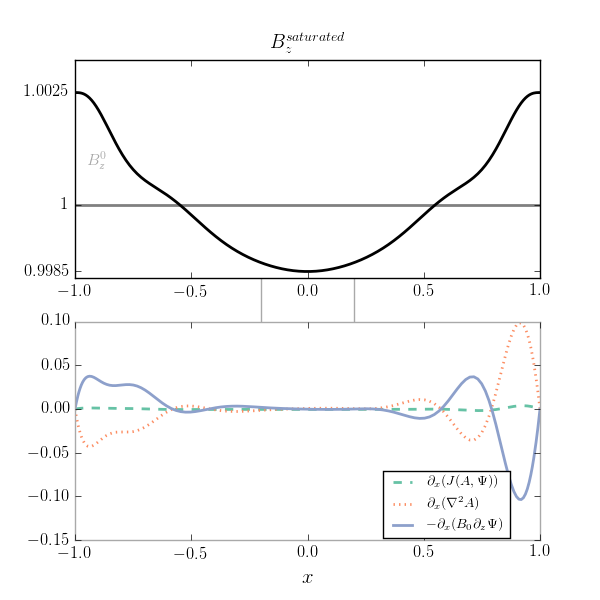
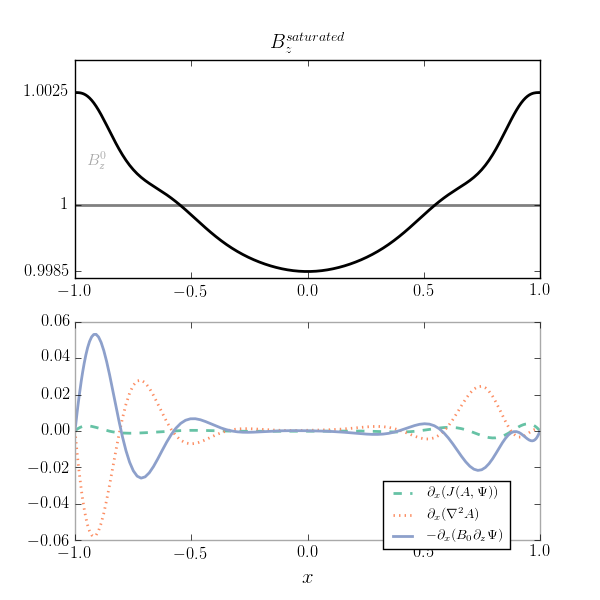
tidied up saturation plots

Changed region(s): [[0.06, 0.54, 0.9, 0.93], [0.09, 0.87, 0.12, 0.93], [0.09, 0.51, 0.12, 0.54]]

diff --git a/python/plot_thingap_saturation_mechanisms.py b/python/plot_thingap_saturation_mechanisms.py
@@ -113,7 +113,7 @@ else:
     ax2.plot(xgrid, dzBphi_slice, "-.", color=colors[3], lw=lw, label=r"$-\frac{2}{\beta} B_0 \partial_z B$")
     ax2.plot(xgrid, shearu_slice, dashes = [5,2,10,5], color=colors[4], lw=lw, label=r"$(2-q)\Omega_0 \partial_z \Psi$" )
 ax2.set_xlabel(r"$x$", size=15)
-plt.legend(prop={'size':10}, bbox_to_anchor=(0.95, 0.35))
+plt.legend(prop={'size':10}, bbox_to_anchor=(0.9, 0.35))
 
 #ax2.set_xlim(-0.2, 0.2)
 #ax2.set_ylim(-0.00008, 0.00008)
@@ -135,7 +135,7 @@ coord2 = transFigure.transform(ax2.transData.transform([0.2, ymax2]))
 line2 = matplotlib.lines.Line2D((coord1[0],coord2[0]),(coord1[1],coord2[1]),
                                transform=fig.transFigure, color="darkgray", zorder=-99)
                                
-fig.lines = line1, line2
+#fig.lines = line1, line2
 
 for spine in ax2.spines.values():
     spine.set_edgecolor("darkgray")
@@ -169,7 +169,7 @@ else:
     ax2.plot(xgrid, nablasqAterm_dx_slice, ":", color=colors[1], lw=lw, label=r"$\partial_x (\nabla^2 A)$")
     ax2.plot(xgrid, Aterm1_dx_slice, color=colors[2], lw=lw, label=r"$-\partial_x (B_0 \partial_z \Psi) $")
 ax2.set_xlabel(r"$x$", size=15)
-plt.legend(prop={'size':10}, bbox_to_anchor=(0.95, 0.35))
+plt.legend(prop={'size':10}, bbox_to_anchor=(0.95, 0.3))
 
 #ax2.set_xlim(-0.2, 0.2)
 #ax2.set_ylim(-0.00008, 0.00008)
@@ -191,7 +191,7 @@ coord2 = transFigure.transform(ax2.transData.transform([0.2, ymax2]))
 line2 = matplotlib.lines.Line2D((coord1[0],coord2[0]),(coord1[1],coord2[1]),
                                transform=fig.transFigure, color="darkgray", zorder=-99)
                                
-fig.lines = line1, line2
+#fig.lines = line1, line2
 
 for spine in ax2.spines.values():
     spine.set_edgecolor("darkgray")
